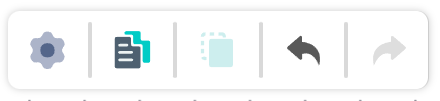
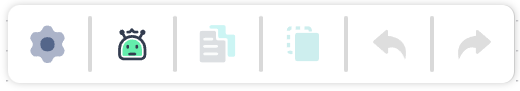
docs: 分享工具

diff --git a/src/data/updateLogs.ts b/src/data/updateLogs.ts
@@ -40,7 +40,7 @@ export const pinnedNotice: PinnedNotice = {
   title: "置顶公告",
   type: "info",
   content: [
-    "**正式版 LocalBridge🌉 已上线**！我们十分推荐您尝试，详情可查阅 [本地服务文档](https://mpe.codax.site/docs/guide/server/deploy.html)",
+    "**正式版 LocalBridge🌉 已上线**！目前已全面支持**本地文档管理**与**字段快捷填充**（OCR、图片裁剪等）功能，**仅需一行指令即可下载安装**，我们十分推荐您尝试，详情可查阅 [本地服务文档](https://mpe.codax.site/docs/guide/server/deploy.html)",
   ],
 };
 

diff --git a/docsite/docs/01.指南/10.工作流面板/60.工具.md b/docsite/docs/01.指南/10.工作流面板/60.工具.md
@@ -20,12 +20,17 @@ tags:
 通用工具在编辑区左上角，目前支持如下操作：
 
 - `设置`：点击后唤出设置界面
+- `AI 对话历史`：查看调用 AI 的记录
 - `复制 (Ctrl+C)`：当选中节点后可用，将节点保存至 MPE 粘贴板，支持多选复制
 - `粘贴 (Ctrl+V)`：当 MPE 粘贴板内有复制的节点时可用，节点粘贴至编辑区
 - `撤销 (Ctrl+Z)`：撤销上一步操作
 - `重做 (Ctrl+Y)`：重做已撤销的操作
 
 ## 节点模板工具
+
+::: tip
+**在新版本中，推进您右键编辑区空白区域呼出节点添加面板进行操作**
+:::
 
 节点模板在编辑区左侧，目前支持如下模板：
 
@@ -39,10 +44,41 @@ tags:
 
 ![](/images/core/排版工具.png)
 
-在选中两个及以上节点时，您可以使用对齐工具；在未选中节点时，您可使用自动排版工具
+在选中两个及以上节点时，您可以使用对齐工具：
 
 - `居中对齐`：将节点 `x` 坐标设置一致
 - `顶对齐`：将节点 `y` 坐标设置一致
 - `底对齐`：将节点 `y+height` 设置一致
+
+在未选中节点时，您可使用自动排版工具：
+
 - `自动布局`：根据节点连接关系，自动给出一个可区分的排列
+
+为了方便切换主题时的间距调整，您可以使用间距调整工具：
+
+- `水平增加/缩减`：调节节点上下间距
+- `垂直增加/缩减`：调节节点左右间距
+
+其他：
+
 - `将布局保存为图片`：导出当前画布为 PNG 图片，若有选中节点则仅导出选中的节点，若无选中节点则导出全部节点
+
+## 分享
+
+分享功能位于顶部导航栏，可以帮助您快速分享当前的 Pipeline 配置。
+
+### 使用方式
+
+1. **生成分享链接**：点击顶部导航栏的「分享」按钮
+2. **自动复制**：分享链接会自动复制到剪贴板
+3. **分享给他人**：将链接发送给其他人
+4. **打开分享链接**：接收方打开链接后，会自动创建一个名为「来自分享」的新文件，并加载分享的 Pipeline
+
+分享链接采用 **URL 参数** 方式，适合分享中小型 Pipeline（理论上支持到 1k 个节点，但链接会很长）
+
+::: warning
+
+- 分享链接包含完整的 Pipeline 配置（节点、连接、参数等），请注意隐私安全
+- 打开分享链接时会自动创建新文件，不会覆盖现有工作
+- 分享的内容不包含本地文件路径等环境相关配置
+  :::

diff --git a/docsite/docs/01.指南/10.工作流面板/40.连接.md b/docsite/docs/01.指南/10.工作流面板/40.连接.md
@@ -1,5 +1,5 @@
 ---
-title: 连接与设置
+title: 连接
 permalink: /guide/core/link
 categories:
   - 指南
